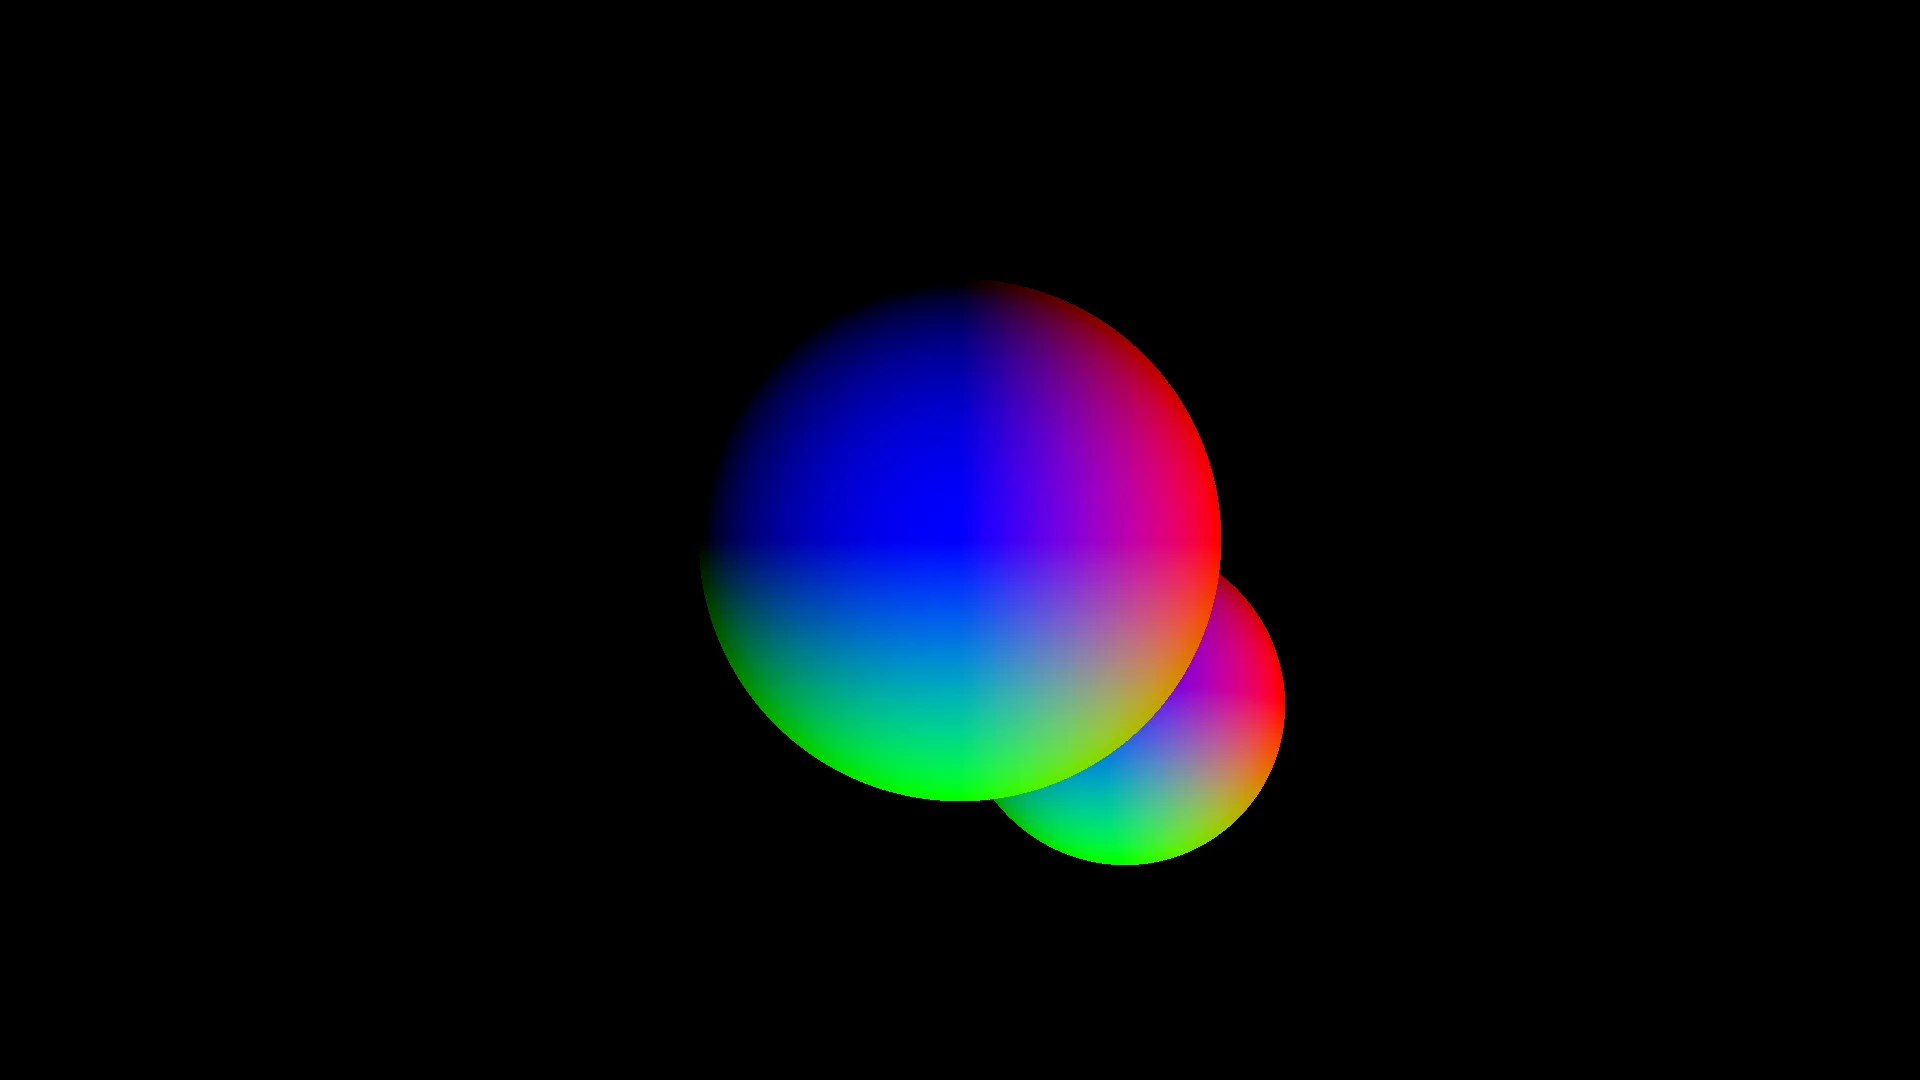
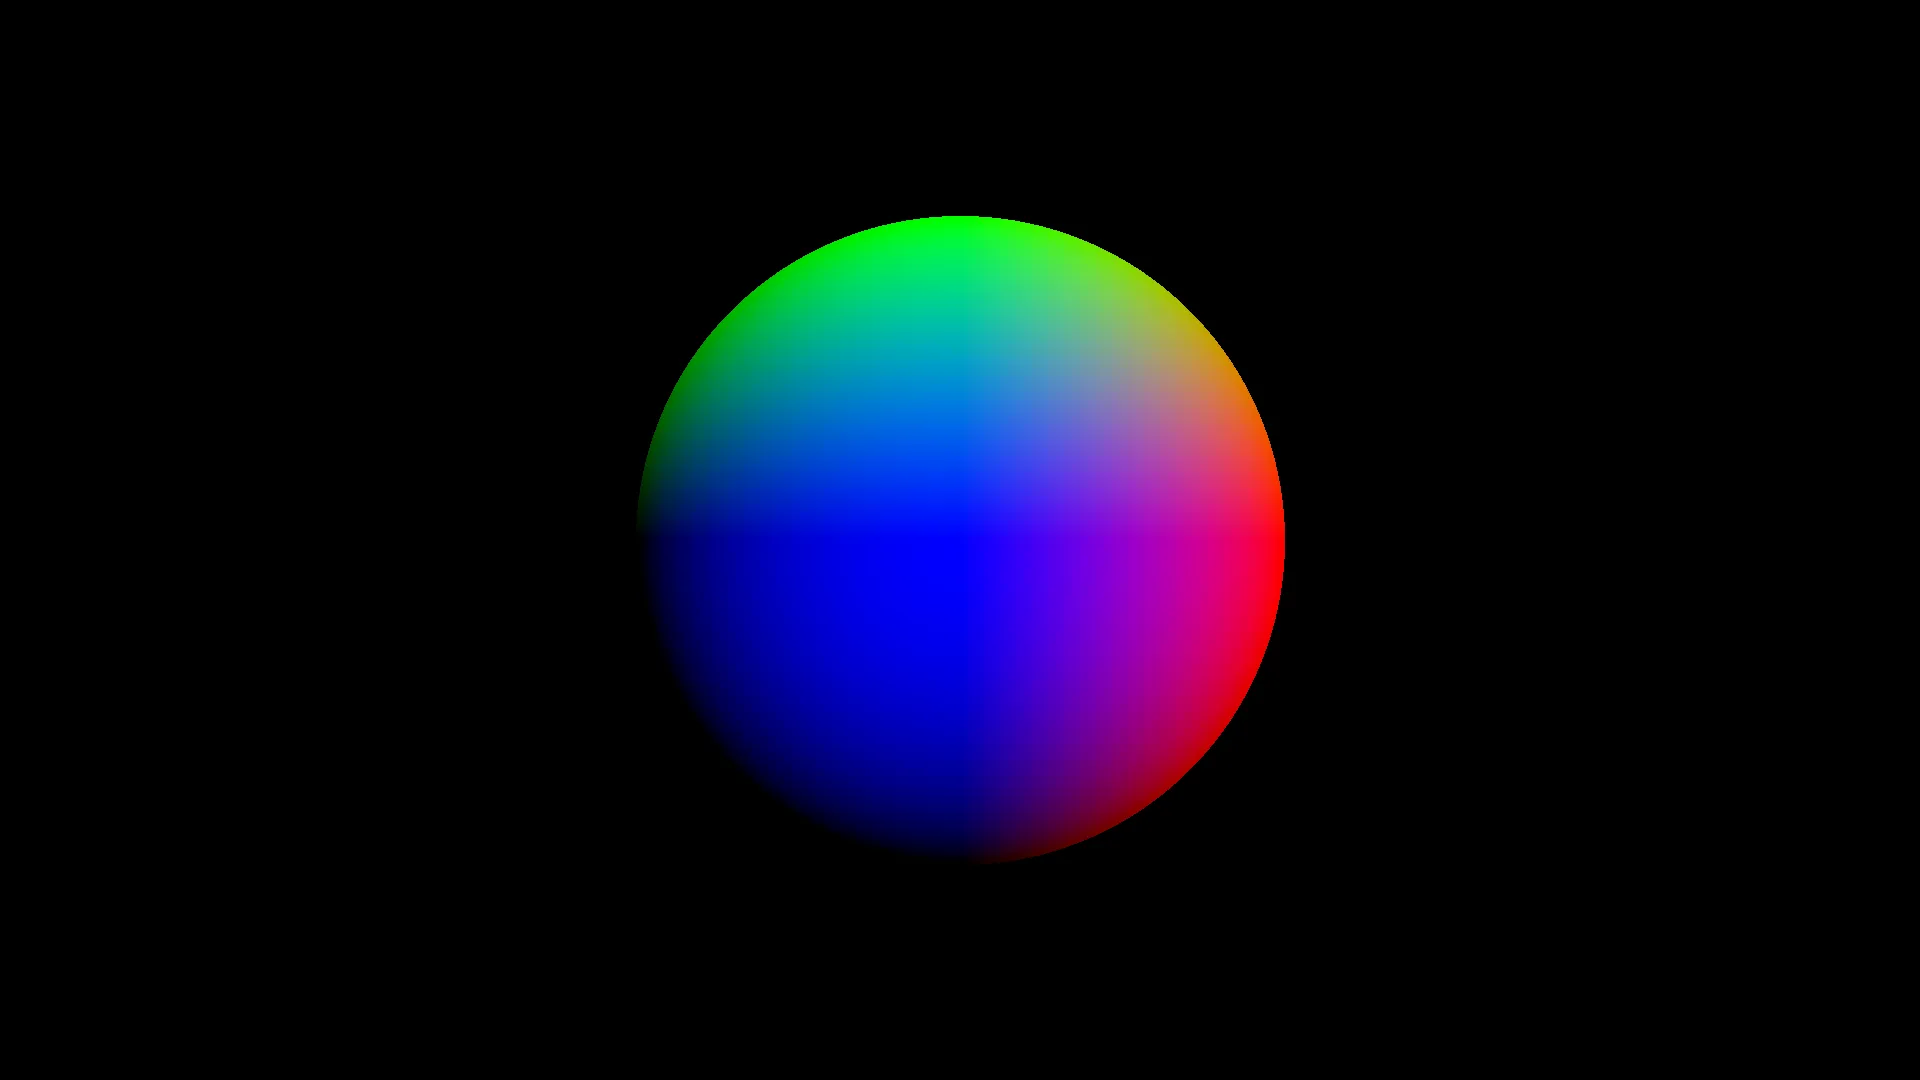
💥 Change the viewport settings

Changed region(s): [[0.3125, 0.1833, 0.6875, 0.825]]

diff --git a/src/scene.rs b/src/scene.rs
@@ -13,7 +13,7 @@ pub struct Scene {
     pub output_size: OutputSize,
 
     /// Projection viewport.
-    /// The eye is located at `(0.0, 0.0, -focal_length)`.
+    #[serde(default)]
     pub viewport: Viewport,
 
     /// Surfaces to render.
@@ -27,26 +27,34 @@ impl Scene {
         let buffer = String::from_utf8(buffer)?;
         toml::from_str(&buffer).with_context(|| format!("failed to read a scene from `{path:?}`"))
     }
-
-    pub const fn viewport_height(&self) -> f64 {
-        self.viewport.width / self.output_size.width as f64 * self.output_size.height as f64
-    }
 }
 
 #[derive(Deserialize)]
 pub struct OutputSize {
     /// Output image width, in pixels.
+    #[serde(default = "OutputSize::default_width")]
     pub width: u32,
 
     /// Output image height, in pixels.
+    #[serde(default = "OutputSize::default_height")]
     pub height: u32,
+}
+
+impl OutputSize {
+    pub const fn default_width() -> u32 {
+        1920
+    }
+
+    pub const fn default_height() -> u32 {
+        1080
+    }
 }
 
 impl Default for OutputSize {
     fn default() -> Self {
         Self {
-            width: 1920,
-            height: 1080,
+            width: Self::default_width(),
+            height: Self::default_height(),
         }
     }
 }
@@ -56,6 +64,10 @@ pub struct Viewport {
     /// Viewport width, in meters.
     #[serde(default = "Viewport::default_width")]
     pub width: f64,
+
+    /// Distance between the projection plane and the world center, in meters.
+    #[serde(default = "Viewport::default_distance")]
+    pub distance: f64,
 
     /// Distance between the projection plane and the projection point, in meters.
     #[serde(default = "Viewport::default_focal_length")]
@@ -67,7 +79,21 @@ impl Viewport {
         1.0
     }
 
+    pub const fn default_distance() -> f64 {
+        1.0
+    }
+
     pub const fn default_focal_length() -> f64 {
         1.0
+    }
+}
+
+impl Default for Viewport {
+    fn default() -> Self {
+        Self {
+            width: Self::default_width(),
+            distance: Self::default_distance(),
+            focal_length: Self::default_focal_length(),
+        }
     }
 }

diff --git a/src/tracer.rs b/src/tracer.rs
@@ -7,18 +7,25 @@ use crate::ray::Ray;
 use crate::scene::Scene;
 
 pub fn render(scene: &Scene, into: &mut RgbaImage) {
-    let progress = ProgressBar::new(into.width() as u64 * into.height() as u64);
+    let x_vector = DVec3::new(scene.viewport.width, 0.0, 0.0) / into.width() as f64;
+    let y_vector = DVec3::new(0.0, -x_vector.x, 0.0);
+    info!(?x_vector, ?y_vector);
 
-    let eye_position = DVec3::new(0.0, 0.0, -scene.viewport.focal_length);
+    let viewport_center = DVec3::new(0.0, 0.0, -scene.viewport.distance);
+    info!(?viewport_center);
+
+    let eye_position = DVec3::new(0.0, 0.0, -scene.viewport.focal_length - scene.viewport.distance);
     info!(?eye_position);
 
+    let progress = ProgressBar::new(into.width() as u64 * into.height() as u64);
     for x in 0..into.width() {
-        let viewport_x = pixel_index_to_viewport(x, into.width(), scene.viewport.width);
         for y in 0..into.height() {
-            let viewport_y = pixel_index_to_viewport(y, into.height(), scene.viewport_height());
+            let viewport_point = viewport_center
+                + (x as f64 - into.width() as f64 / 2.0) * x_vector
+                + (y as f64 - into.height() as f64 / 2.0) * y_vector;
             let ray = Ray {
                 origin: eye_position,
-                direction: eye_position - DVec3::new(viewport_x, viewport_y, 0.0),
+                direction: eye_position - viewport_point,
             };
             let pixel = trace_ray(&ray, scene);
             into.put_pixel(x, y, pixel);
@@ -27,12 +34,6 @@ pub fn render(scene: &Scene, into: &mut RgbaImage) {
     }
 
     progress.finish();
-}
-
-/// Centers the point inside the pixel and inside the entire viewport.
-#[inline]
-const fn pixel_index_to_viewport(x: u32, image_size: u32, viewport_size: f64) -> f64 {
-    ((x as f64 + 0.5) / image_size as f64 - 0.5) * viewport_size
 }
 
 #[inline]
